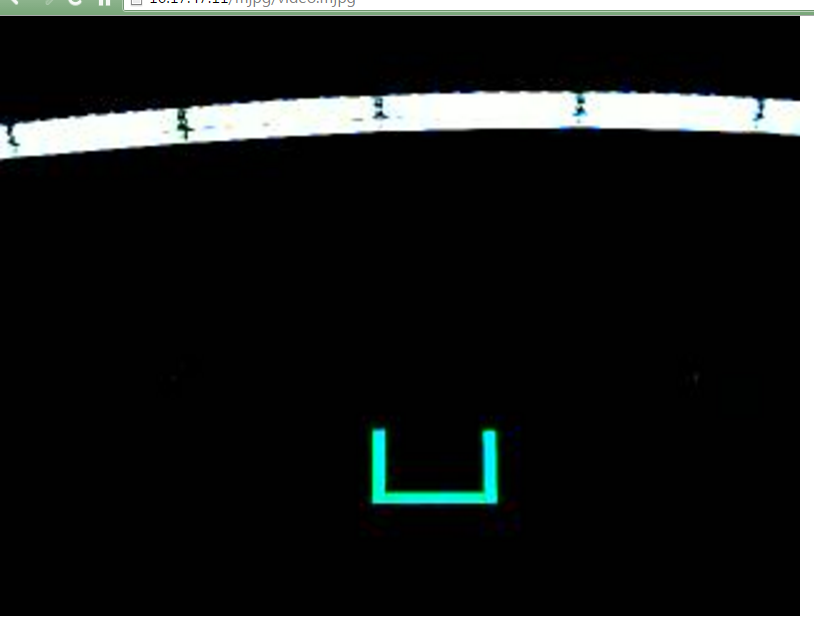
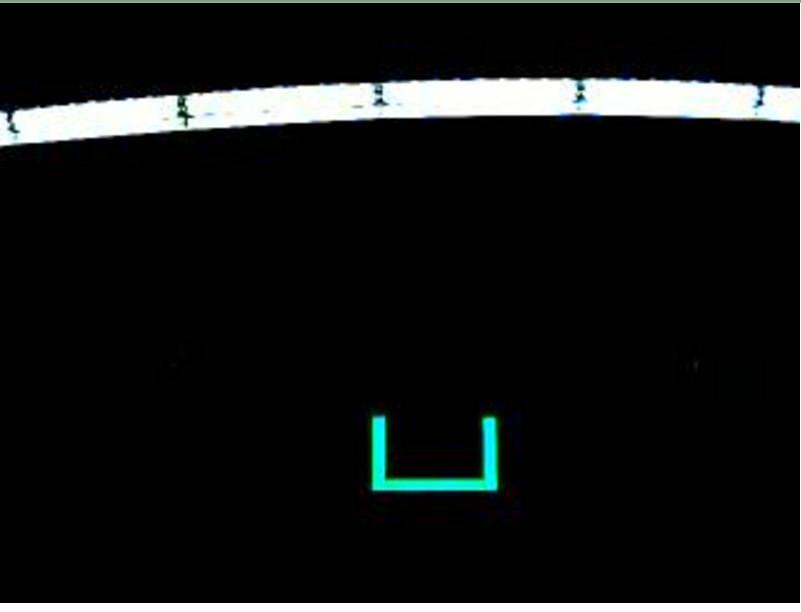
Hitbox

Changed region(s): [[0.0, 0.0, 1.0, 0.9935], [0.437, 0.652, 0.6242, 0.8072]]

diff --git a/src/test/Test4.java b/src/test/Test4.java
@@ -14,11 +14,12 @@ import org.opencv.core.Core;
 import org.opencv.core.CvType;
 import org.opencv.core.Mat;
 import org.opencv.core.MatOfPoint;
+import org.opencv.core.Point;
 import org.opencv.core.Rect;
 import org.opencv.core.Scalar;
 import org.opencv.imgproc.Imgproc;
-import org.opencv.videoio.VideoCapture;
-import edu.wpi.first.wpilibj.networktables.*;
+
+import edu.wpi.first.wpilibj.networktables.NetworkTable;
 
 public class Test4 {
 
@@ -63,8 +64,8 @@ public class Test4 {
 		// Mat hsv = new Mat();
 		// Imgproc.cvtColor(src, hsv, Imgproc.COLOR_BGR2HSV);
 		Mat ranged = new Mat();
-		Scalar lowerBound = new Scalar(0, 235, 0);
-		Scalar upperBound = new Scalar(20, 255, 20);
+		Scalar lowerBound = new Scalar(0, 220, 0);
+		Scalar upperBound = new Scalar(40, 255, 40);
 		Core.inRange(src, lowerBound, upperBound, ranged);
 		// blur image
 		// Imgproc.medianBlur(ranged, ranged, 15);
@@ -112,17 +113,21 @@ public class Test4 {
 		double distance = (TOP_TARGET_HEIGHT - TOP_CAMERA_HEIGHT)
 				/ Math.tan((y * VERTICAL_FOV / 2.0 + CAMERA_ANGLE) * Math.PI / 180.0);
 		System.out.println("DISTANCE: " + distance);
-		double centerX = (rec.tl().x + rec.br().x) / 2.0;
-		double centerY = (rec.tl().y + rec.br().y) / 2.0;
+		Point center = new Point((rec.tl().x + rec.br().x) / 2.0, (rec.tl().y + rec.br().y) / 2.0),
+				topLeft = new Point(100, 100), bottomRight = new Point(300, 200);
+
+		Imgproc.circle(src, center, 5, new Scalar(255, 0, 0));
+		Imgproc.rectangle(src, topLeft, bottomRight, new Scalar(0, 0, 255));
+
 		String direction = "unknown";
-		if (centerX < src.width() / 3.0) {
+		if (center.x < topLeft.x) {
 			direction = "left";
-		} else if (centerX > 2.0 * src.width() / 3.0) {
+		} else if (center.x > bottomRight.x) {
 			direction = "right";
-		} else if (centerY < src.height() / 3.0) {
-			direction = "backward";
-		} else if (centerY > 2.0 * src.height() / 3.0) {
+		} else if (center.y > bottomRight.y) {
 			direction = "forward";
+		} else if (center.y < topLeft.y) {
+			direction = "backward";
 		} else {
 			direction = "shoot";
 		}
